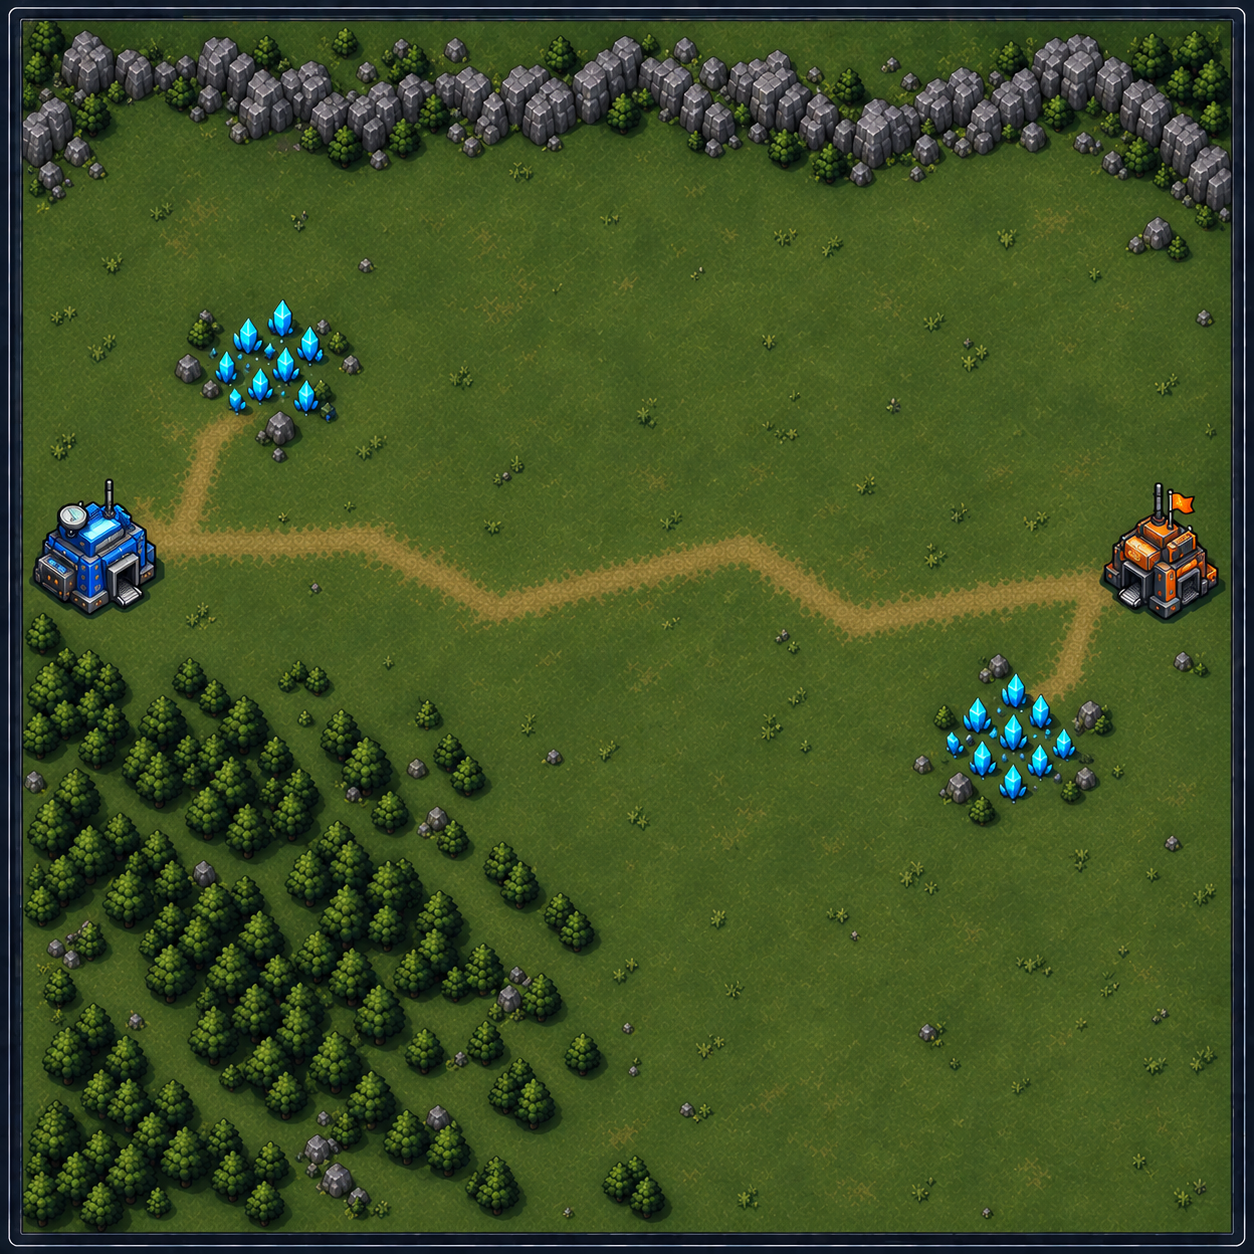
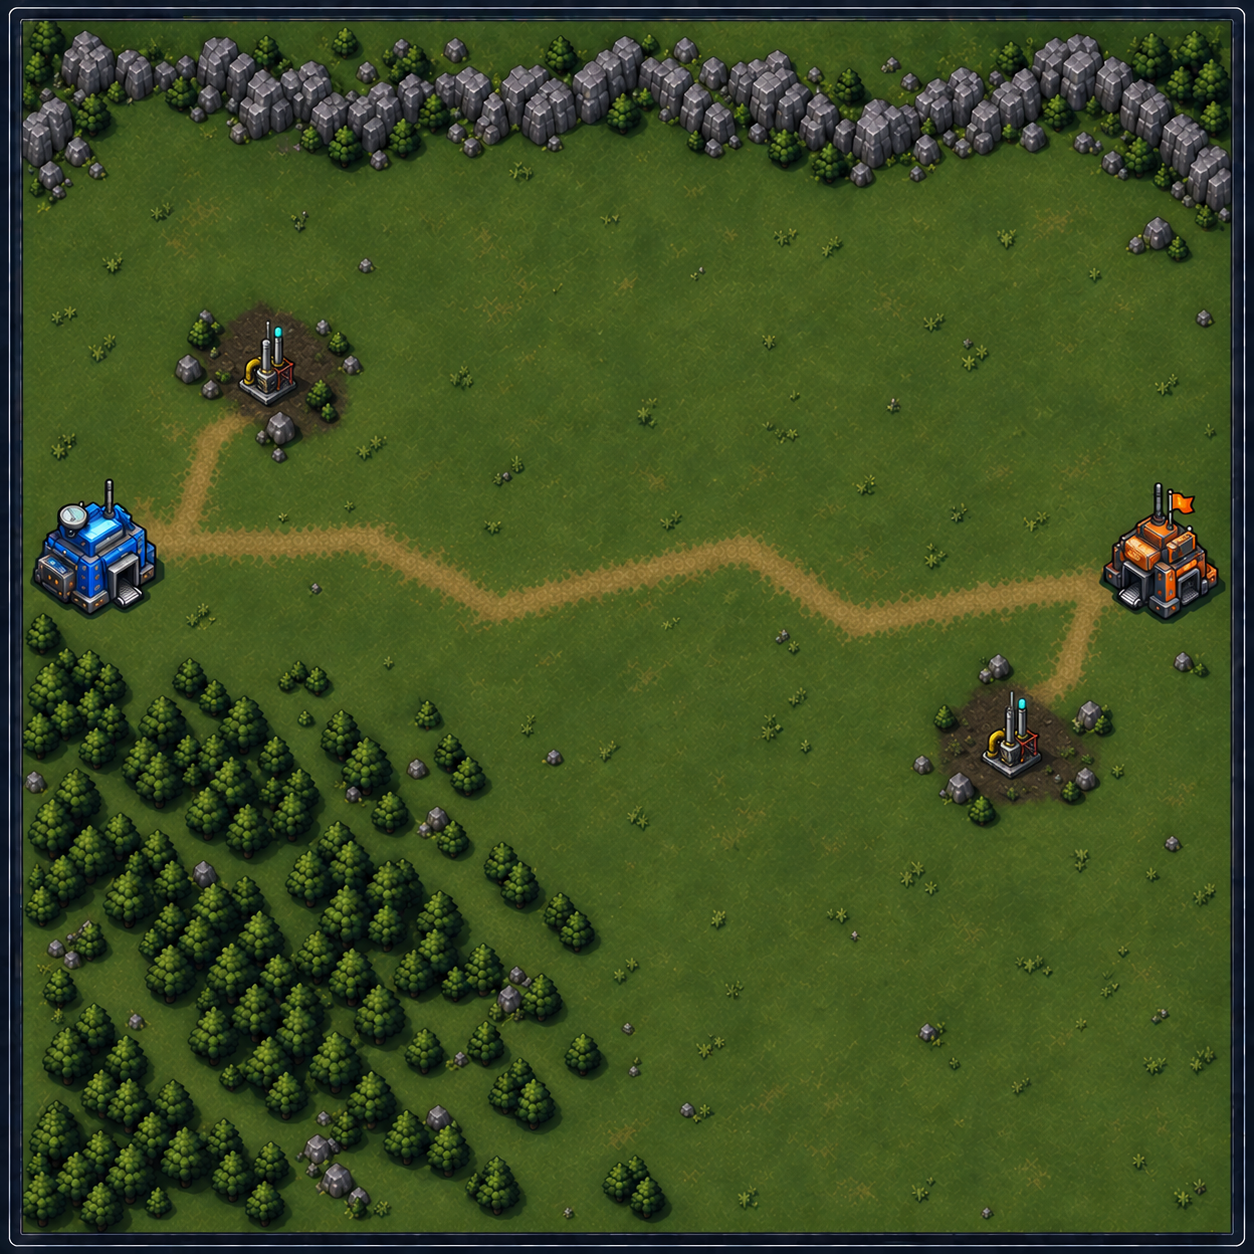
Replace remaining crystal artwork

diff --git a/src/ui/gameModeScreen.ts b/src/ui/gameModeScreen.ts
@@ -1,7 +1,7 @@
 import type { AudioManager } from '../audio/AudioManager';
 import { QuickAudioToggle } from './quickAudioToggle';
 
-const OPEN_FIELD_RENDER = new URL('../../assets/concepts/open-field-map-render.png', import.meta.url).href;
+const OPEN_FIELD_RENDER = new URL('../../assets/concepts/open-field-map-render-v2.png', import.meta.url).href;
 
 /** Single-player entry point with the future multiplayer mode visible but intentionally disabled. */
 export class GameModeScreen {
